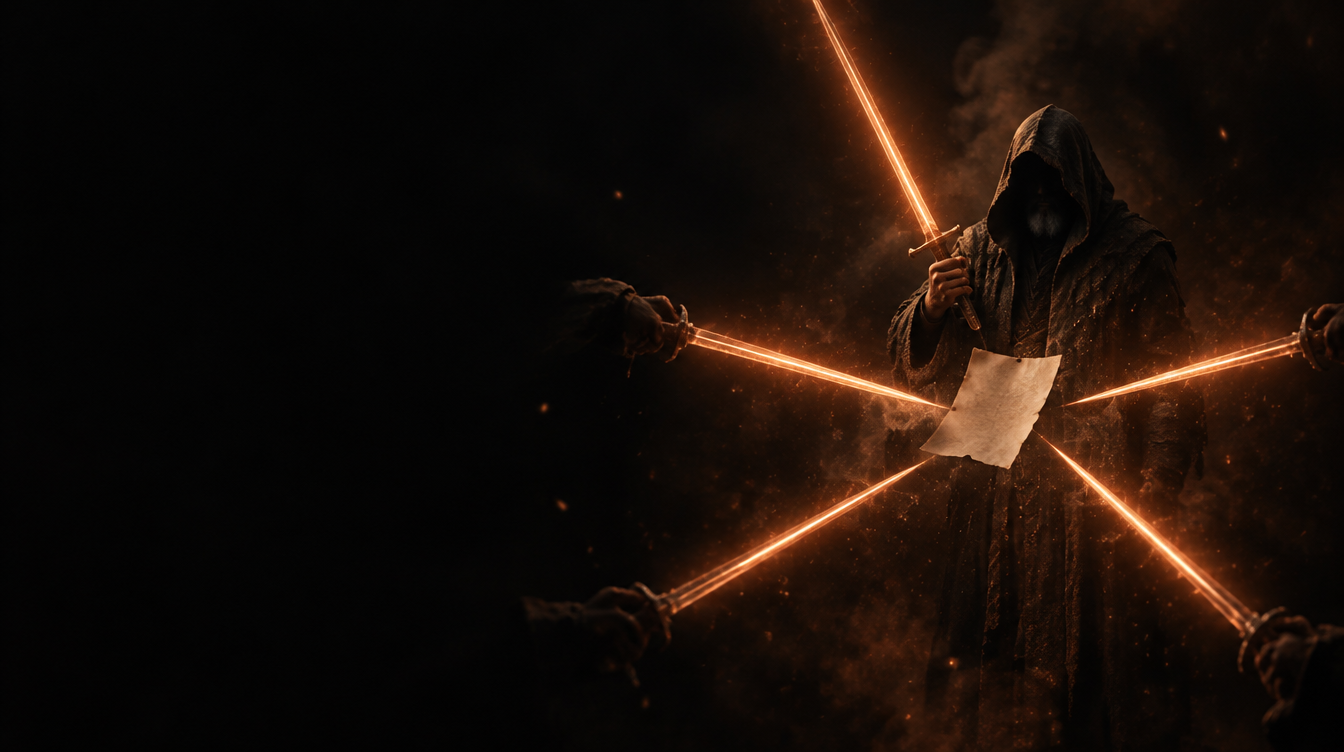
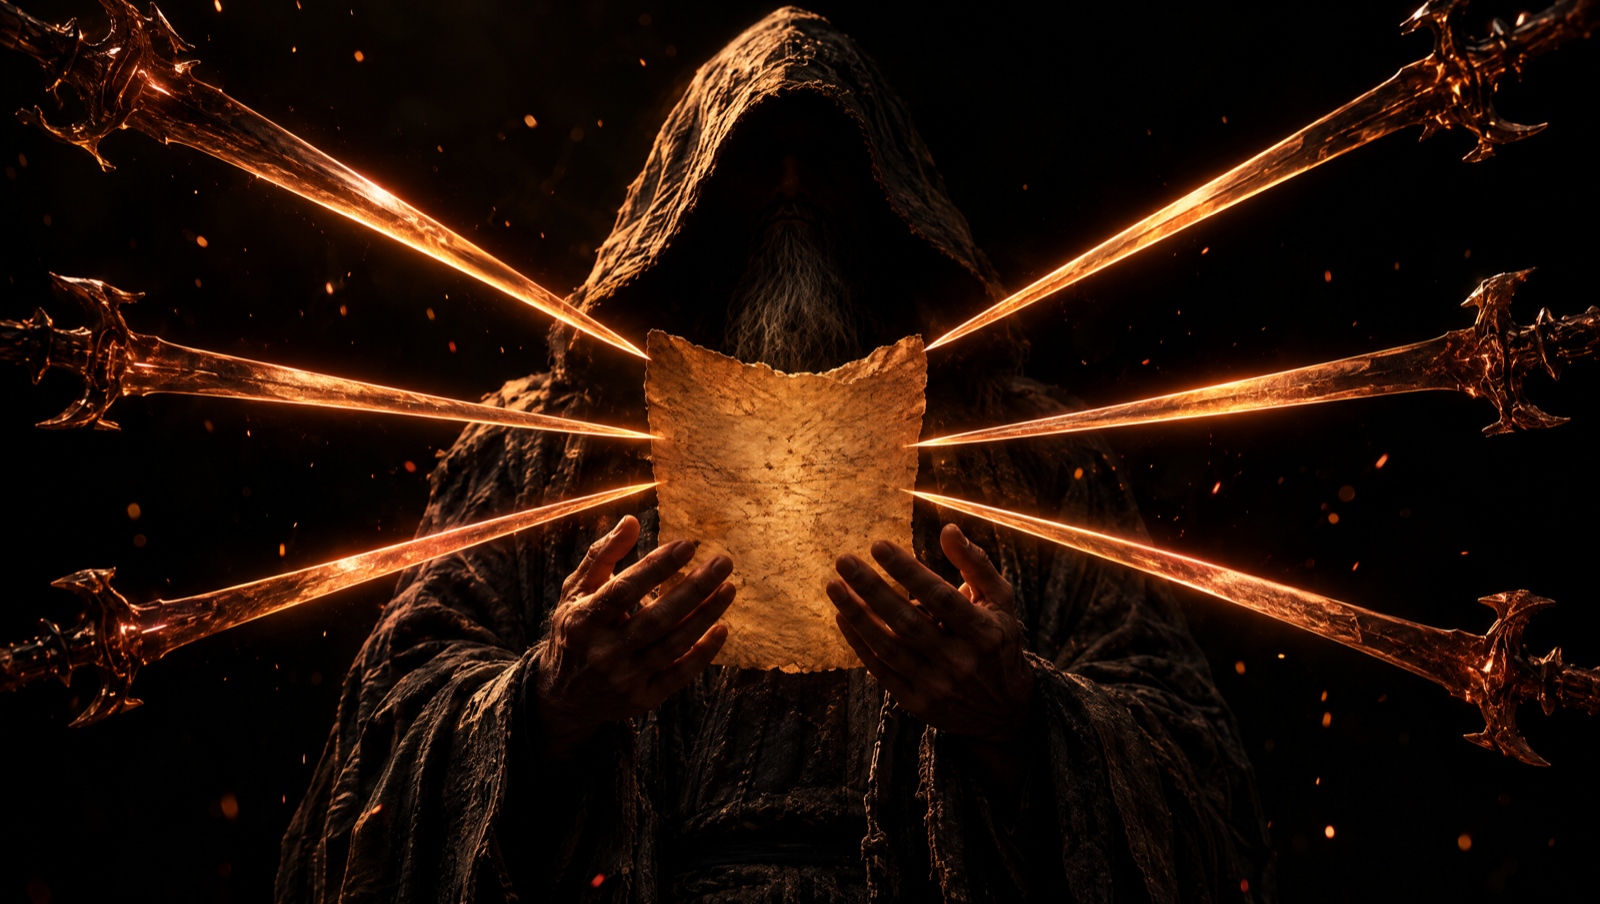
assets: album-cover social preview (series v2)

diff --git a/assets/social-preview.html b/assets/social-preview.html
@@ -1,11 +1,8 @@
 <!DOCTYPE html><html><head><meta charset="utf-8"><style>
-html,body{margin:0;padding:0;background:#0B0B0D}
-body{position:relative;font-family:-apple-system,"SF Pro Display","Helvetica Neue",Helvetica,sans-serif}
-.org{position:absolute;left:96px;top:96px;font-size:18px;line-height:18px;color:#6E6A66}
-.blk{position:absolute;left:96px;bottom:96px}
-.w{font-size:96px;line-height:100px;font-weight:700;letter-spacing:-0.02em;color:#F2EFEA}
-.t{font-size:28px;line-height:34px;font-weight:500;color:#C9823B;margin-top:10px}
-</style></head><body style="margin:0;width:1280px;height:640px;overflow:hidden;background:#0B0B0D url('social-preview-bg.png') center/cover no-repeat">
-<div class="org">zayvillion-dot</div>
-<div class="blk"><div class="w">jedi-review</div><div class="t">Adversarial review. Zero escaped defects.</div></div>
-</body></html>
+html,body{margin:0;width:1280px;height:640px;overflow:hidden}
+body{position:relative;background:#0B0B0D url('social-preview-bg.png') center/cover no-repeat;font-family:-apple-system,"SF Pro Display","Helvetica Neue",Helvetica,sans-serif}
+.g{position:absolute;inset:0;background:linear-gradient(to top,rgba(11,11,13,.82) 0%,rgba(11,11,13,.35) 38%,transparent 62%)}
+.o{position:absolute;left:72px;top:34px;font-size:18px;color:#8A847E;letter-spacing:.02em}
+.w{position:absolute;left:72px;bottom:150px;font-size:150px;font-weight:800;letter-spacing:-0.04em;line-height:1;color:#F2EFEA;opacity:.94;white-space:nowrap;transform:translateY(0.2em);}
+.t{position:absolute;left:76px;bottom:70px;font-size:30px;font-weight:600;letter-spacing:.01em;color:#C9823B}
+</style></head><body><div class="g"></div><div class="o">zayvillion-dot</div><div class="w">jedi-review</div><div class="t">Adversarial review. Zero escaped defects.</div></body></html>

diff --git a/assets/social-preview-v1.html b/assets/social-preview-v1.html
@@ -1,0 +1,11 @@
+<!DOCTYPE html><html><head><meta charset="utf-8"><style>
+html,body{margin:0;padding:0;background:#0B0B0D}
+body{position:relative;font-family:-apple-system,"SF Pro Display","Helvetica Neue",Helvetica,sans-serif}
+.org{position:absolute;left:96px;top:96px;font-size:18px;line-height:18px;color:#6E6A66}
+.blk{position:absolute;left:96px;bottom:96px}
+.w{font-size:96px;line-height:100px;font-weight:700;letter-spacing:-0.02em;color:#F2EFEA}
+.t{font-size:28px;line-height:34px;font-weight:500;color:#C9823B;margin-top:10px}
+</style></head><body style="margin:0;width:1280px;height:640px;overflow:hidden;background:#0B0B0D url('social-preview-bg.png') center/cover no-repeat">
+<div class="org">zayvillion-dot</div>
+<div class="blk"><div class="w">jedi-review</div><div class="t">Adversarial review. Zero escaped defects.</div></div>
+</body></html>
